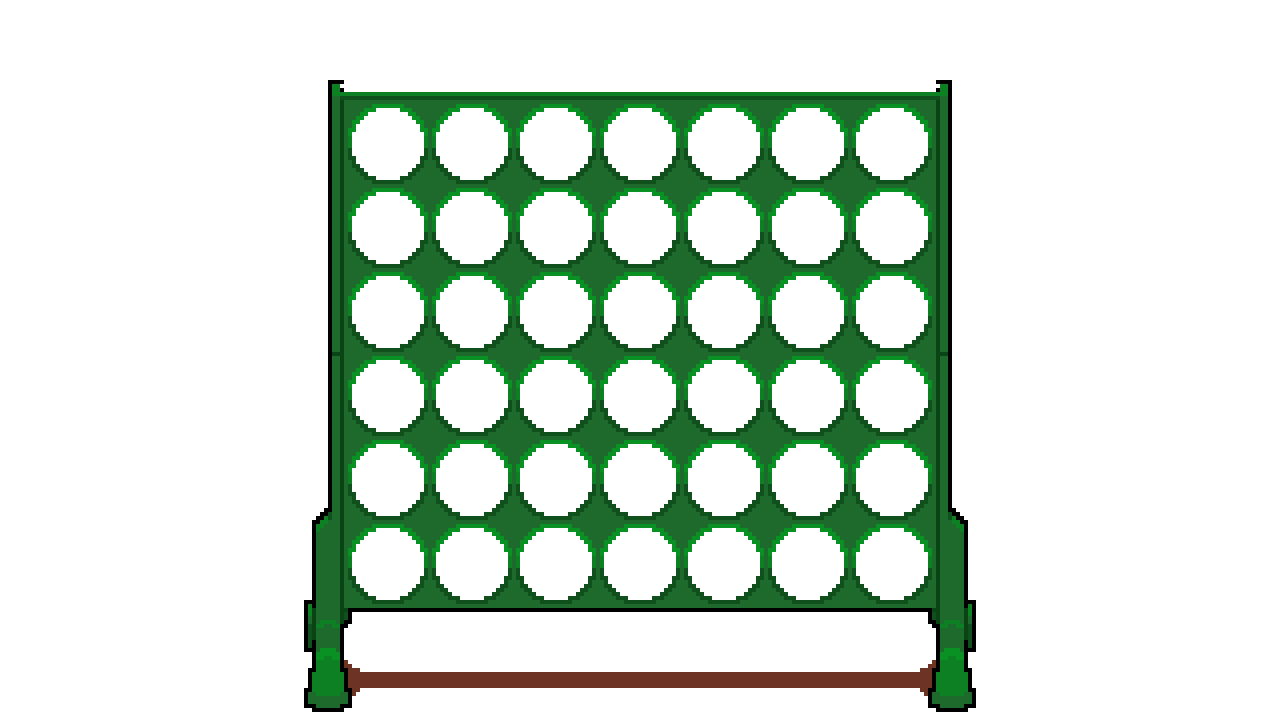
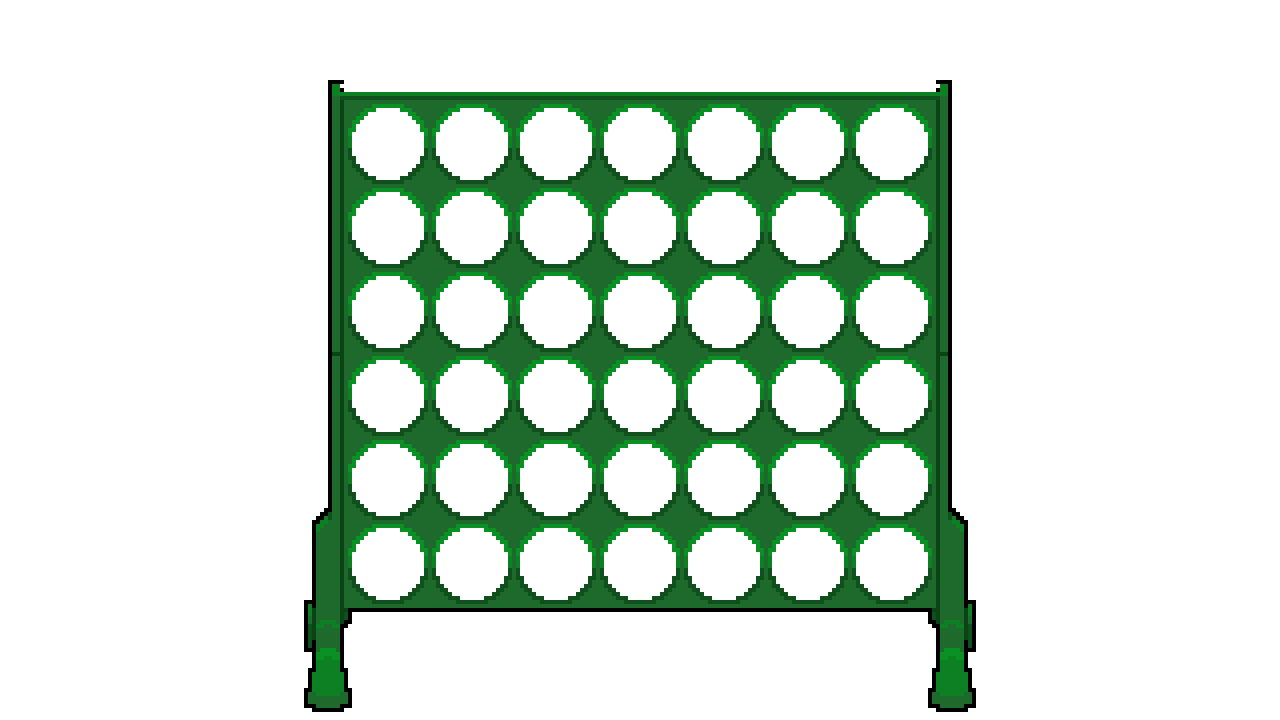
feat: add new assets, add new tokens to canvas display, add reverse token bottom-up insertion

Changed region(s): [[0.25, 0.9167, 0.75, 0.9778]]

diff --git a/connect-4-frontend/src/lib/canvasLogic.ts b/connect-4-frontend/src/lib/canvasLogic.ts
@@ -1,18 +1,29 @@
-import { BOARD_START_HEIGHT, BOARD_START_WIDTH, BOARD_SLOT_DISTANCE, GAME_ROWS, GAME_COLUMNS, STEP } from './config.js';
+import { BOARD_START_HEIGHT, BOARD_START_WIDTH, BOARD_SLOT_DISTANCE, GAME_ROWS, GAME_COLUMNS, TOKEN_GRAVITY_REVERSE, TOKEN_GRAVITY_NORMAL, STEP } from './config.js';
 import * as types from '@/lib/types.js';
 import * as proto from './proto.js';
 
-import BoardTable from '../assets/board_table.png';
-import BoardFront from '../assets/board_front.png';
-import BoardBack from '../assets/board_back.png';
-import ColIndic from '../assets/board_indicator.png';
-import TokenP1 from '../assets/board_token1.png';
-import TokenP2 from '../assets/board_token2.png';
+import BoardTable from '@/assets/board_table.png';
+import BoardFront from '@/assets/board_front.png';
+import BoardShadow from '@/assets/board_shadow.png';
+import BoardBack from '@/assets/board_back.png';
+import ColIndic from '@/assets/board_indicator.png';
+
+import TokenP1 from '@/assets/board_token1.png';
+import TokenP2 from '@/assets/board_token2.png';
+import TokenAuraP1 from '@/assets/board_token_aura1.png';
+import TokenAuraP2 from '@/assets/board_token_aura2.png';
+import TokenNegativeP1 from '@/assets/board_token_negative1.png';
+import TokenNegativeP2 from '@/assets/board_token_negative2.png';
+import TokenReverseP1 from '@/assets/board_token_reverse1.png';
+import TokenReverseP2 from '@/assets/board_token_reverse2.png';
+import TokenBomb from '@/assets/board_token_bomb.png';
+import TokenBurn from '@/assets/board_token_burn.png';
 
 type FallingToken = {
     column: number;
     targetRow: number;
-    player: proto.shared.PlayerIDs;
+    player: types.TPlayerIDs;
+    type: types.TTokenTypes;
 
     x: number;
     y: number;
@@ -37,10 +48,20 @@ class GameCanvas {
 
     private boardTable = new Image();
     private boardFront = new Image();
+    private boardShadow = new Image();
     private boardBack = new Image();
     private colIndic = new Image();
+
     private tokenP1 = new Image();
     private tokenP2 = new Image();
+    private tokenAuraP1 = new Image();
+    private tokenAuraP2 = new Image();
+    private tokenNegativeP1 = new Image();
+    private tokenNegativeP2 = new Image();
+    private tokenReverseP1 = new Image();
+    private tokenReverseP2 = new Image();
+    private tokenBomb = new Image();
+    private tokenBurn = new Image();
 
     public constructor(canvas: HTMLCanvasElement, ctx: CanvasRenderingContext2D) {
         this.canvas = canvas;
@@ -48,17 +69,50 @@ class GameCanvas {
 
         this.boardTable.src = BoardTable;
         this.boardFront.src = BoardFront;
+        this.boardShadow.src = BoardShadow;
         this.boardBack.src = BoardBack;
         this.colIndic.src = ColIndic;
+
         this.tokenP1.src = TokenP1;
         this.tokenP2.src = TokenP2;
+        this.tokenAuraP1.src = TokenAuraP1;
+        this.tokenAuraP2.src = TokenAuraP2;
+        this.tokenNegativeP1.src = TokenNegativeP1;
+        this.tokenNegativeP2.src = TokenNegativeP2;
+        this.tokenReverseP1.src = TokenReverseP1;
+        this.tokenReverseP2.src = TokenReverseP2;
+        this.tokenBomb.src = TokenBomb;
+        this.tokenBurn.src = TokenBurn;
     }
 
     // Map of token sources used for token rendering
-    private tokenMap: Map<proto.shared.PlayerIDs, HTMLImageElement | undefined> = new Map([
-        [types.P_PlayerIDs.PLAYER_IDS_UNSPECIFIED, undefined],
-        [types.P_PlayerIDs.PLAYER_IDS_PLAYER1, this.tokenP1],
-        [types.P_PlayerIDs.PLAYER_IDS_PLAYER2, this.tokenP2],
+    private tokenMap: Map<
+            types.TTokenTypes, 
+            Map<types.TPlayerIDs, HTMLImageElement> | undefined
+        > = new Map([
+        [types.P_TokenTypes.TOKEN_TYPES_UNSPECIFIED, undefined],
+        [types.P_TokenTypes.TOKEN_TYPES_STANDARD, new Map<types.TPlayerIDs, HTMLImageElement>([
+            [types.P_PlayerIDs.PLAYER_IDS_PLAYER1, this.tokenP1],
+            [types.P_PlayerIDs.PLAYER_IDS_PLAYER2, this.tokenP2],
+        ])],
+        [types.P_TokenTypes.TOKEN_TYPES_AURA, new Map([
+            [types.P_PlayerIDs.PLAYER_IDS_PLAYER1, this.tokenAuraP1],
+            [types.P_PlayerIDs.PLAYER_IDS_PLAYER2, this.tokenAuraP2],
+        ])],
+        [types.P_TokenTypes.TOKEN_TYPES_NEGATIVE, new Map([
+            [types.P_PlayerIDs.PLAYER_IDS_PLAYER1, this.tokenNegativeP1],
+            [types.P_PlayerIDs.PLAYER_IDS_PLAYER2, this.tokenNegativeP2],
+        ])],
+        [types.P_TokenTypes.TOKEN_TYPES_REVERSE, new Map([
+            [types.P_PlayerIDs.PLAYER_IDS_PLAYER1, this.tokenReverseP1],
+            [types.P_PlayerIDs.PLAYER_IDS_PLAYER2, this.tokenReverseP2],
+        ])],
+        [types.P_TokenTypes.TOKEN_TYPES_BOMB, new Map([
+            [types.P_PlayerIDs.PLAYER_IDS_UNSPECIFIED, this.tokenBomb],
+        ])],
+        [types.P_TokenTypes.TOKEN_TYPES_BURN, new Map([
+            [types.P_PlayerIDs.PLAYER_IDS_UNSPECIFIED, this.tokenBurn],
+        ])],
     ]);
 
     private currentBoardState: proto.shared.IGameBoard = proto.shared.GameBoard.create({
@@ -101,11 +155,8 @@ class GameCanvas {
         this.ctx.drawImage(this.colIndic, this.columnIndicator.column * BOARD_SLOT_DISTANCE + BOARD_START_WIDTH + 4, 20);
     }
 
-    public insertToken(column: number, row: number, player: types.TPlayerIDs) {
+    public placeToken(column: number, row: number, player: types.TPlayerIDs, tokenType: types.TTokenTypes) {
         const x = column * BOARD_SLOT_DISTANCE + BOARD_START_WIDTH;
-
-        // Starting position
-        const startY: number = 0;
 
         const targetY = (GAME_ROWS - 1 - row) * BOARD_SLOT_DISTANCE + BOARD_START_HEIGHT;
 
@@ -113,9 +164,12 @@ class GameCanvas {
             column,
             targetRow: row,
             player,
+            type: tokenType,
 
             x,
-            y: startY,
+            y: (tokenType === types.P_TokenTypes.TOKEN_TYPES_REVERSE)
+            ? 2 * BOARD_START_HEIGHT + (GAME_ROWS * BOARD_SLOT_DISTANCE)
+            : 0,
             targetY,
 
             velocity: 0,
@@ -123,21 +177,23 @@ class GameCanvas {
     }
 
     private updateFallingTokens(dt: number) {
-        const gravity: number = 5000;
-
         for (let i = this.fallingTokens.length - 1; i >= 0; i--) {
             const token = this.fallingTokens[i];
+            const gravity: number = (token.type === types.P_TokenTypes.TOKEN_TYPES_REVERSE)
+            ? TOKEN_GRAVITY_REVERSE
+            : TOKEN_GRAVITY_NORMAL;
 
             token.velocity += gravity * dt;
             token.y += token.velocity * dt;
 
-            if (token.y >= token.targetY) {
+            if ((token.type !== types.P_TokenTypes.TOKEN_TYPES_REVERSE && token.y >= token.targetY) ||
+                (token.type === types.P_TokenTypes.TOKEN_TYPES_REVERSE && token.y <= token.targetY)) {
                 token.y = token.targetY;
 
                 // Commit token to board state
                 this.currentBoardState.rows![token.targetRow].tokens![token.column] = {
                     playerId: token.player,
-                    tokenType: types.P_TokenTypes.TOKEN_TYPES_STANDARD,
+                    tokenType: token.type,
                 };
 
                 this.fallingTokens.splice(i, 1);
@@ -147,7 +203,8 @@ class GameCanvas {
 
     private drawFallingTokens() {
         for (const token of this.fallingTokens) {
-            const img = this.tokenMap.get(token.player);
+            const type = this.tokenMap.get(token.type);
+            const img = type?.get(token.player);
 
             if (!img) continue;
 
@@ -161,6 +218,7 @@ class GameCanvas {
         this.ctx.beginPath();
 
         this.ctx.drawImage(this.boardTable, 0, 0);
+        this.ctx.drawImage(this.boardShadow, 0, 0);
         this.ctx.drawImage(this.boardBack, 0, 0);
 
         this.drawTokens();
@@ -178,9 +236,12 @@ class GameCanvas {
         for (let i = 0; i < this.currentBoardState.rows!.length; i++) {
             for (let j = 0; j < this.currentBoardState.rows![i].tokens!.length; j++) {
                 const token = this.currentBoardState.rows![i].tokens![j];
-                if (token && token.playerId !== 0) {
+                if (token && token.tokenType !== types.P_TokenTypes.TOKEN_TYPES_UNSPECIFIED) {
+                    const type = this.tokenMap.get(token.tokenType!);
+                    const img = type!.get(token.playerId!);
+                    
                     this.ctx.drawImage(
-                        this.tokenMap.get(this.currentBoardState.rows![i].tokens![j].playerId!)!,
+                        img!,
                         j * BOARD_SLOT_DISTANCE + BOARD_START_WIDTH,
                         (this.currentBoardState.rows!.length - 1 - i) * BOARD_SLOT_DISTANCE + BOARD_START_HEIGHT
                     );

diff --git a/connect-4-frontend/src/components/game/GameBoardCanvas.tsx b/connect-4-frontend/src/components/game/GameBoardCanvas.tsx
@@ -1,8 +1,8 @@
 import { useEffect, useRef, useState, useCallback, useContext } from 'react';
-import { useParams, useNavigate } from 'react-router-dom';
+import { useNavigate } from 'react-router-dom';
 import { CANVAS_WIDTH, CANVAS_HEIGHT, GAME_ROWS, GAME_COLUMNS } from '@/lib/config.js';
-import { useMutation, useQuery } from '@tanstack/react-query';
-import { getGameState, leaveLobby } from '@/lib/api';
+import { useMutation } from '@tanstack/react-query';
+import { leaveLobby } from '@/lib/api';
 import { langContext } from '@/lib/contexts';
 import { toast } from 'sonner';
 import { GameWebSocket } from '@/lib/websockets.js';
@@ -12,18 +12,10 @@ import * as proto from '@/lib/proto.js';
 import * as types from '@/lib/types.js';
 import { Button } from '@/components/ui/button';
 
-function Game() {
+function Game({ queryData, lobbyCode }: { queryData: proto.routes.GetGameResponse, lobbyCode: string }) {
     const navigate = useNavigate();
-    const { lobbyCode } = useParams();
     const animationRef = useRef<number | null>(null);
     const gameCanvasRef = useRef<GameCanvas | null>(null);
-
-    const { data: queryData, isLoading, error } = useQuery({
-        queryKey: ['lobby', lobbyCode],
-        queryFn: () => getGameState(lobbyCode!),
-        refetchOnWindowFocus: false,
-        retry: 1,
-    });
 
     const [currentBoardState, setCurrentBoardState] = useState(queryData?.game?.board ??
         proto.shared.GameBoard.create({

diff --git a/connect-4-frontend/src/lib/config.ts b/connect-4-frontend/src/lib/config.ts
@@ -14,6 +14,9 @@ export const BOARD_START_HEIGHT: number = 25 * 4;
 export const BOARD_SLOT_DISTANCE: number = 21 * 4;
 export const GAME_ROWS: number = 6;
 export const GAME_COLUMNS: number = 7;
+// Token properties
+export const TOKEN_GRAVITY_NORMAL: number = 5000;
+export const TOKEN_GRAVITY_REVERSE: number = -5000;
 
 export const FPS: number = 30;
 // ms per game state update; ~16.666666(...)ms at 60 FPS
